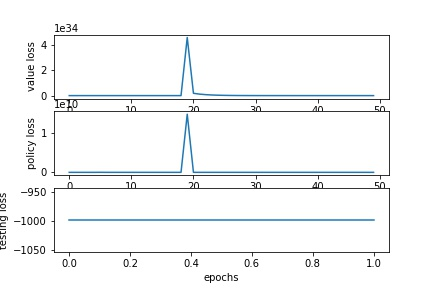
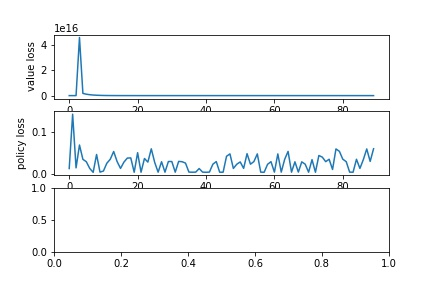
feat: Added some tweaks while trying to figure out policy loss and value loss problems.

diff --git a/function-gen/models/rl/agents/agent_mcts/main.py b/function-gen/models/rl/agents/agent_mcts/main.py
@@ -13,6 +13,7 @@ import time
 import numpy as np
 import matplotlib.pyplot as plt
 
+
 from IPython.display import display
 
 
@@ -31,11 +32,11 @@ import os
 os.environ['KMP_DUPLICATE_LIB_OK']='True'
 
 
-def train_mcts(env, num_epochs):
+def train_mcts(env, num_epochs, policy=None):
     n_actions = env.action_space.n
     n_obs = env.observation_space.shape[0]
 
-    trainer = Trainer(lambda: IntegerPolicy(n_obs, 20, n_actions))
+    trainer = Trainer(lambda: IntegerPolicy(n_obs, 20, n_actions) if policy is None else policy)
     network = trainer.step_model
 
     mem = ReplayMemory(200,
@@ -51,12 +52,13 @@ def train_mcts(env, num_epochs):
     total_rews = []
 
     for i in range(num_epochs):
-        if i % 50 == 0: 
+        
+        if i % 100 == 0: 
             total_rew = test_agent(i, env, network)
             total_rews.append(total_rew)
             
             fig, axs = plt.subplots(3, 1)
- 
+   
             axs[0].plot(value_losses)
             axs[0].set_xlabel("epochs")
             axs[0].set_ylabel("value loss")
@@ -70,23 +72,20 @@ def train_mcts(env, num_epochs):
             axs[2].set_xlabel("epochs")
             axs[2].set_ylabel("testing loss")
 
-            # fig.tight_layout()
             plt.savefig("training_{}.jpg".format(num_epochs))
-            # plt.ion()
-            # plt.show(block=False)
 
 
 
         obs, pis, returns, tot_reward, done_state = execute_episode(network, 32, env)   
         
         mem.add_all({"ob": obs, "pi": pis, "return": returns})
-        batch = mem.get_minibatch()
+        batch = mem.get_minibatch(batch_size=2)
 
         vl, pl = trainer.train(batch["ob"], batch["pi"], batch["return"])
 
-        value_losses.append(vl)
-        policy_losses.append(pl)
-            
+        value_losses.append(min(vl.item(), 1))
+        policy_losses.append(pl.item())
+
             
             
             

diff --git a/function-gen/models/rl/agents/agent_mcts/trainer.py b/function-gen/models/rl/agents/agent_mcts/trainer.py
@@ -1,5 +1,6 @@
 import torch
 import torch.nn as nn
+import torch.nn.functional as F
 
 
 class Trainer:
@@ -27,8 +28,33 @@ class Trainer:
             logits, policy, value = self.step_model(obs)
 
             logsoftmax = nn.LogSoftmax(dim=1)
-            policy_loss = 5*torch.mean(torch.sum(-search_pis
-                                               * logsoftmax(logits), dim=1))
+            
+            logits_to_logprobs = logsoftmax(logits)
+            logits_search_pis_multiplied = -search_pis * logits_to_logprobs
+            
+            # print("===================")
+            # print("search_pis")
+            # print(search_pis)
+            # print(torch.sum(search_pis, dim=1))
+            # print("logits")
+            # print(logits)
+            # print("policy")
+            # print(policy)
+            # print(torch.sum(policy, dim=1))
+            
+            # print("logits_to_logprobs")
+            # print(logits_to_logprobs)
+            # print("logits_search_pis_multiplied")
+            # print(logits_search_pis_multiplied)
+            
+            
+            # cross_entropy_loss = nn.CrossEntropyLoss()
+            mse_loss = nn.MSELoss()
+            
+            policy_loss = mse_loss(policy, search_pis)     
+            # print(policy_loss)
+            # policy_loss = cross_entropy_loss(policy, search_pis)     
+            # policy_loss = 5*torch.mean(torch.sum(logits_search_pis_multiplied, dim=1)) ''' This was the original '''
             value_loss = value_criterion(value, returns)
             loss = policy_loss + value_loss
 

diff --git a/function-gen/models/rl/agents/agent_mcts/env_archive/original_policy.py b/function-gen/models/rl/agents/agent_mcts/env_archive/original_policy.py
@@ -1,0 +1,47 @@
+import numpy as np
+import torch
+import torch.nn as nn
+import torch.nn.functional as F
+
+
+class HillClimbingPolicy(nn.Module):
+    """
+    Simple neural network policy for solving the hill climbing task.
+    Consists of one common dense layer for both policy and value estimate and
+    another dense layer for each.
+    """
+
+    def __init__(self, n_obs, n_hidden, n_actions):
+        super(HillClimbingPolicy, self).__init__()
+
+        self.n_obs = n_obs
+        self.n_hidden = n_hidden
+        self.n_actions = n_actions
+
+        self.dense1 = nn.Linear(n_obs, n_hidden)
+        self.dense_p = nn.Linear(n_hidden, n_actions)
+        self.dense_v = nn.Linear(n_hidden, 1)
+
+    def forward(self, obs):
+        print(obs)
+        obs_one_hot = torch.zeros((obs.shape[0], self.n_obs))
+        obs_one_hot[np.arange(obs.shape[0]), obs.type(torch.LongTensor)] = 1.0
+        h_relu = F.relu(self.dense1(obs_one_hot))
+        logits = self.dense_p(h_relu)
+        policy = F.softmax(logits, dim=1)
+
+        value = self.dense_v(h_relu).view(-1)
+
+        return logits, policy, value
+
+    def step(self, obs):
+        """
+        Returns policy and value estimates for given observations.
+        :param obs: Array of shape [N] containing N observations.
+        :return: Policy estimate [N, n_actions] and value estimate [N] for
+        the given observations.
+        """
+        obs = torch.from_numpy(obs)
+        _, pi, v = self.forward(obs)
+
+        return pi.detach().numpy(), v.detach().numpy()

diff --git a/function-gen/models/rl/agents/agent_mcts/MCTS_node.py b/function-gen/models/rl/agents/agent_mcts/MCTS_node.py
@@ -264,11 +264,11 @@ class MCTSNode:
     def print_tree(self, level=0):
         node_string = "\033[94m|" + "----"*level
         node_string += "Node: action={}\033[0m".format(self.action)
-        node_string += "\n• state:\n{}".format(flatten(self.state))
-        node_string += "\n• N={}".format(self.N)
-        node_string += "\n• score:\n{}".format(self.child_action_score)
-        node_string += "\n• Q:\n{}".format(self.child_Q)
-        node_string += "\n• P:\n{}".format(self.child_prior)
+        # node_string += "\n• state:\n{}".format(flatten(self.state))
+        # node_string += "\n• N={}".format(self.N)
+        # node_string += "\n• score:\n{}".format(self.child_action_score)
+        # node_string += "\n• Q:\n{}".format(self.child_Q)
+        # node_string += "\n• P:\n{}".format(self.child_prior)
         print(node_string)
         for _, child in sorted(self.children.items()):
             child.print_tree(level+1)

diff --git a/function-gen/models/rl/agents/agent_mcts/execute_episode.py b/function-gen/models/rl/agents/agent_mcts/execute_episode.py
@@ -1,4 +1,4 @@
-from .mcts import MCTS
+from .MCTS import MCTS
 
 import random as rd
 import numpy as np
@@ -43,12 +43,14 @@ def execute_episode(agent_netw, num_simulations, TreeEnv):
         while mcts.root.N < current_simulations + num_simulations:
             mcts.tree_search()
 
+        
         action = mcts.pick_action()
         mcts.take_action(action)
 
         if mcts.root.terminal:
             break
-
+    
+    # mcts.root.print_tree()
     # Computes the returns at each step from the list of rewards obtained at
     # each step. The return is the sum of rewards obtained *after* the step.
     # ret = [TreeEnv.get_return(mcts.root.state, mcts.root.depth) for _
@@ -64,6 +66,8 @@ def execute_episode(agent_netw, num_simulations, TreeEnv):
     # obs = np.concatenate(mcts.obs)
     obs = np.array(mcts.obs)
     searches_pi = np.array(mcts.searches_pi)
+    
+   
     
     # print("OBS")
     # print(mcts.obs)

diff --git a/function-gen/models/rl/agents/agent_mcts/replay_memory.py b/function-gen/models/rl/agents/agent_mcts/replay_memory.py
@@ -83,12 +83,13 @@ class ReplayMemory:
         self.count = max(self.count, min(self.current + num, self.size))
         self.current = (self.current + num) % self.size
 
-    def get_minibatch(self):
+    def get_minibatch(self, batch_size = None):
         """
         Returns a batch of experience tuples for training.
         :return: Dictionary containing a numpy array for each column.
         """
-        indices = np.random.choice(self.count, self.batch_size)
+        num_elements = batch_size if batch_size is not None else self.batch_size
+        indices = np.random.choice(self.count, num_elements)
         minibatch = {}
         for column_name in self.columns.keys():
             minibatch[column_name] = self.columns[column_name][indices]

diff --git a/function-gen/models/rl/env.py b/function-gen/models/rl/env.py
@@ -13,7 +13,7 @@ import random
 import numpy as np
 
 
-MAX_PENALTY_MAGNITUDE = 999.0
+MAX_PENALTY_MAGNITUDE = 100.0
 
 def index_of_first(lst, pred):
     for i,v in enumerate(lst):
@@ -76,8 +76,10 @@ def get_current_position(state: TreeState) -> int:
 
 def is_action_valid(state: TreeState, action: int, output_lang: Lang) -> bool:
     pos = get_current_position(state)
-    if pos == 0: return True
-    last_char = decode_with_lang(output_lang, [state[0][pos-1]])[0]
+    if pos == 0:
+        last_char = ""
+    else:
+        last_char = decode_with_lang(output_lang, [state[0][pos-1]])[0]
     possibilities = list_possibilities(last_char)
     next_char = decode_with_lang(output_lang, [action])[0]
     if next_char in possibilities:
